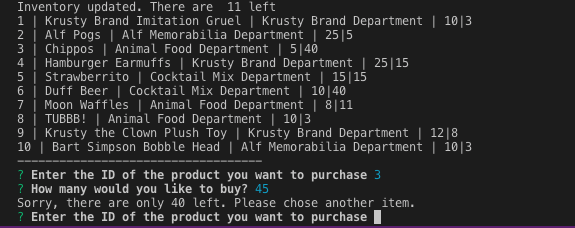
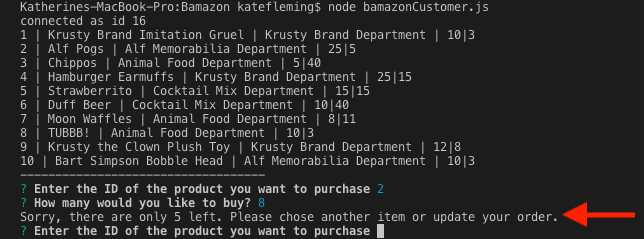
images

Changed region(s): [[0.0, 0.0, 1.0, 1.0]]

diff --git a/bamazonCustomer.js b/bamazonCustomer.js
@@ -50,7 +50,7 @@ var connection = mysql.createConnection({
       {item_id: answer.item}, function(err, res){
         if (parseInt(answer.count) > res[0].stock_quantity) {
 
-          console.log("Sorry, there are only " + res[0].stock_quantity + " left. Please chose another item.");
+          console.log("Sorry, there are only " + res[0].stock_quantity + " left. Please chose another item or update your order.");
           pickProduct();
 
       }
